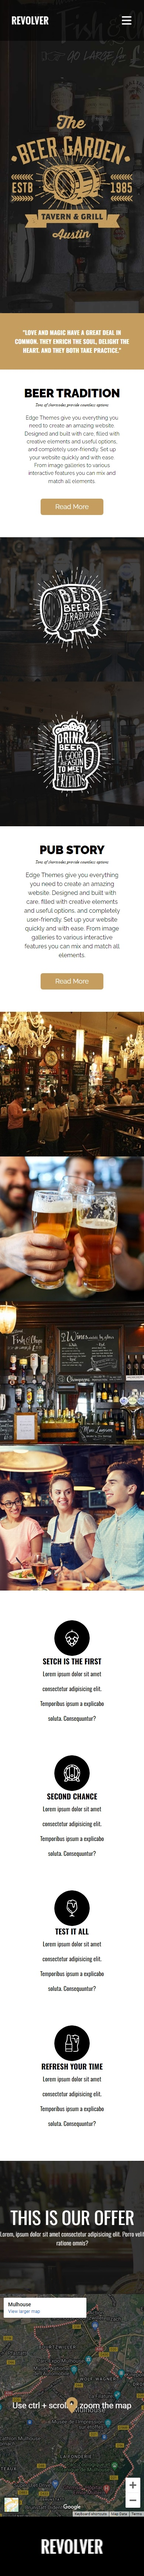
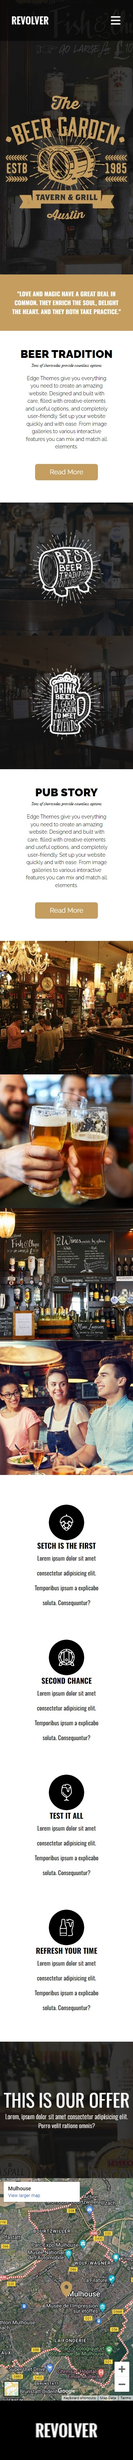
readme

diff --git a/src/components/Tradition.tsx b/src/components/Tradition.tsx
@@ -74,7 +74,7 @@ const Tradition = () => {
           <h2 className="subtitle">
             Tons of shortcodes provide countless options
           </h2>
-          <p className="text-center font-normal text-base mx-16 my-4">
+          <p className="text-center font-normal  text-[0.45em] lg:text-[1.25rem] mx-16 my-4">
             Edge Themes give you everything you need to create an amazing
             website. Designed and built with care, filled with creative elements
             and useful options, and completely user-friendly. Set up your
